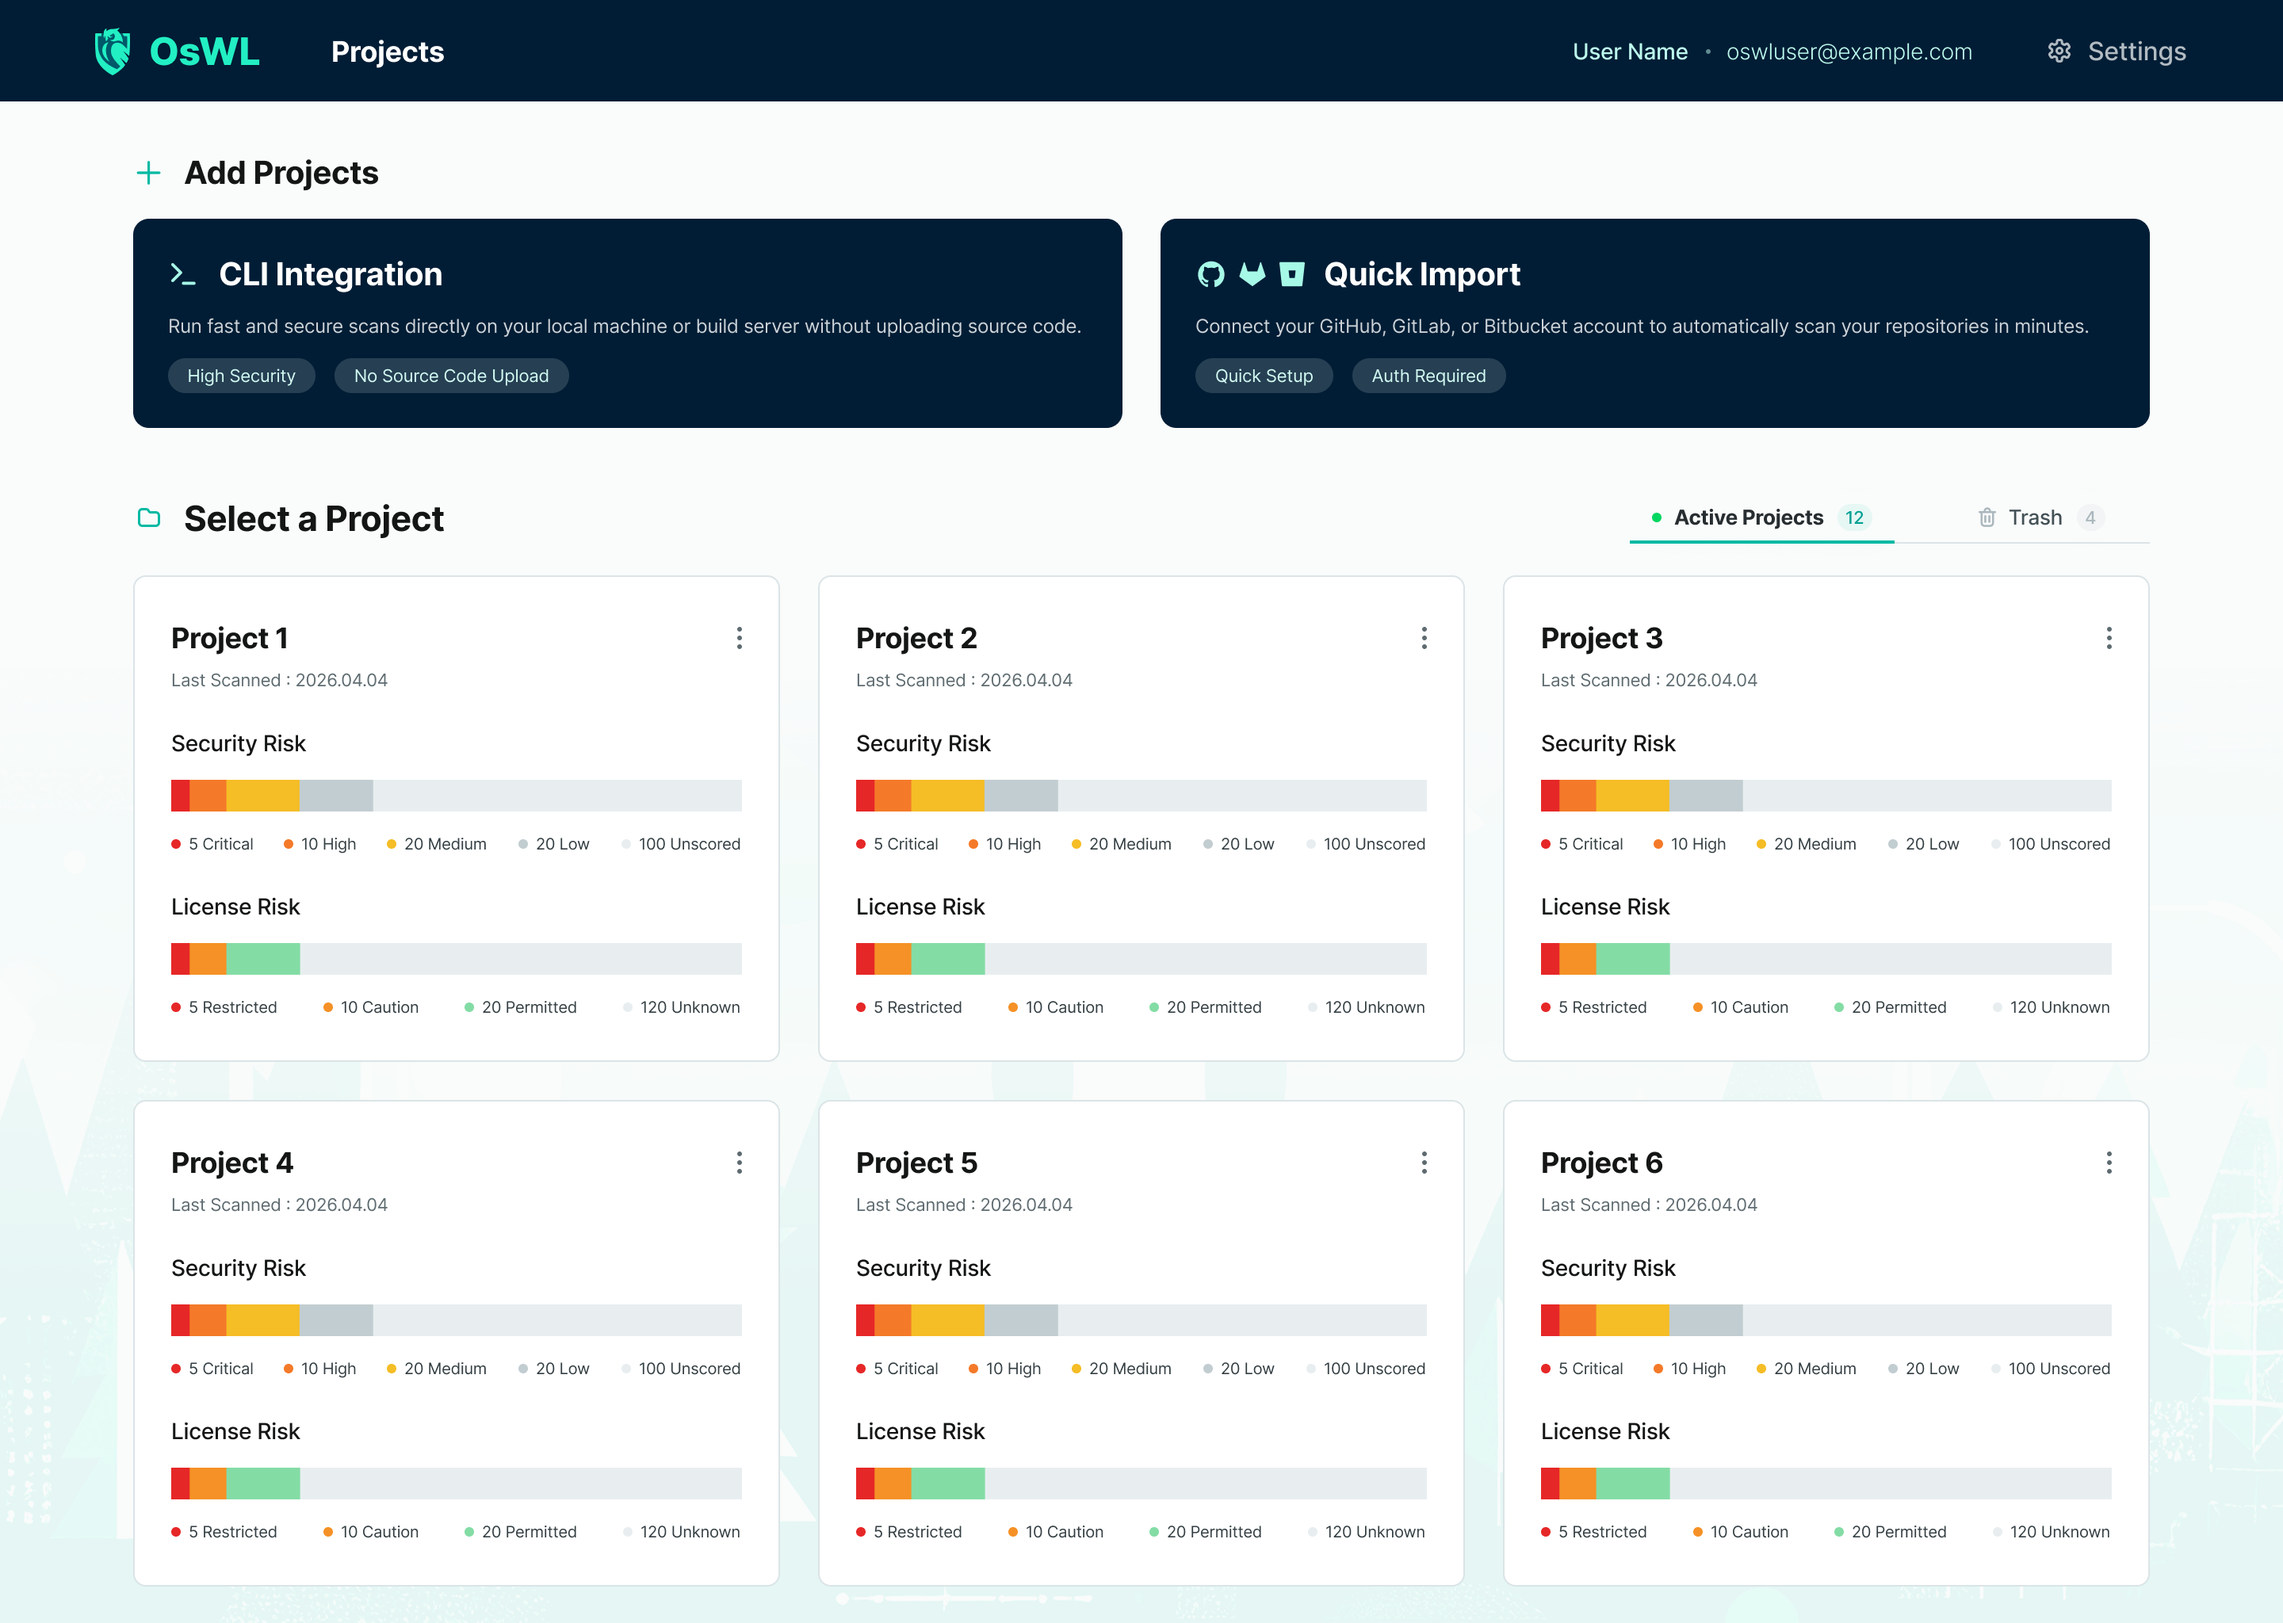
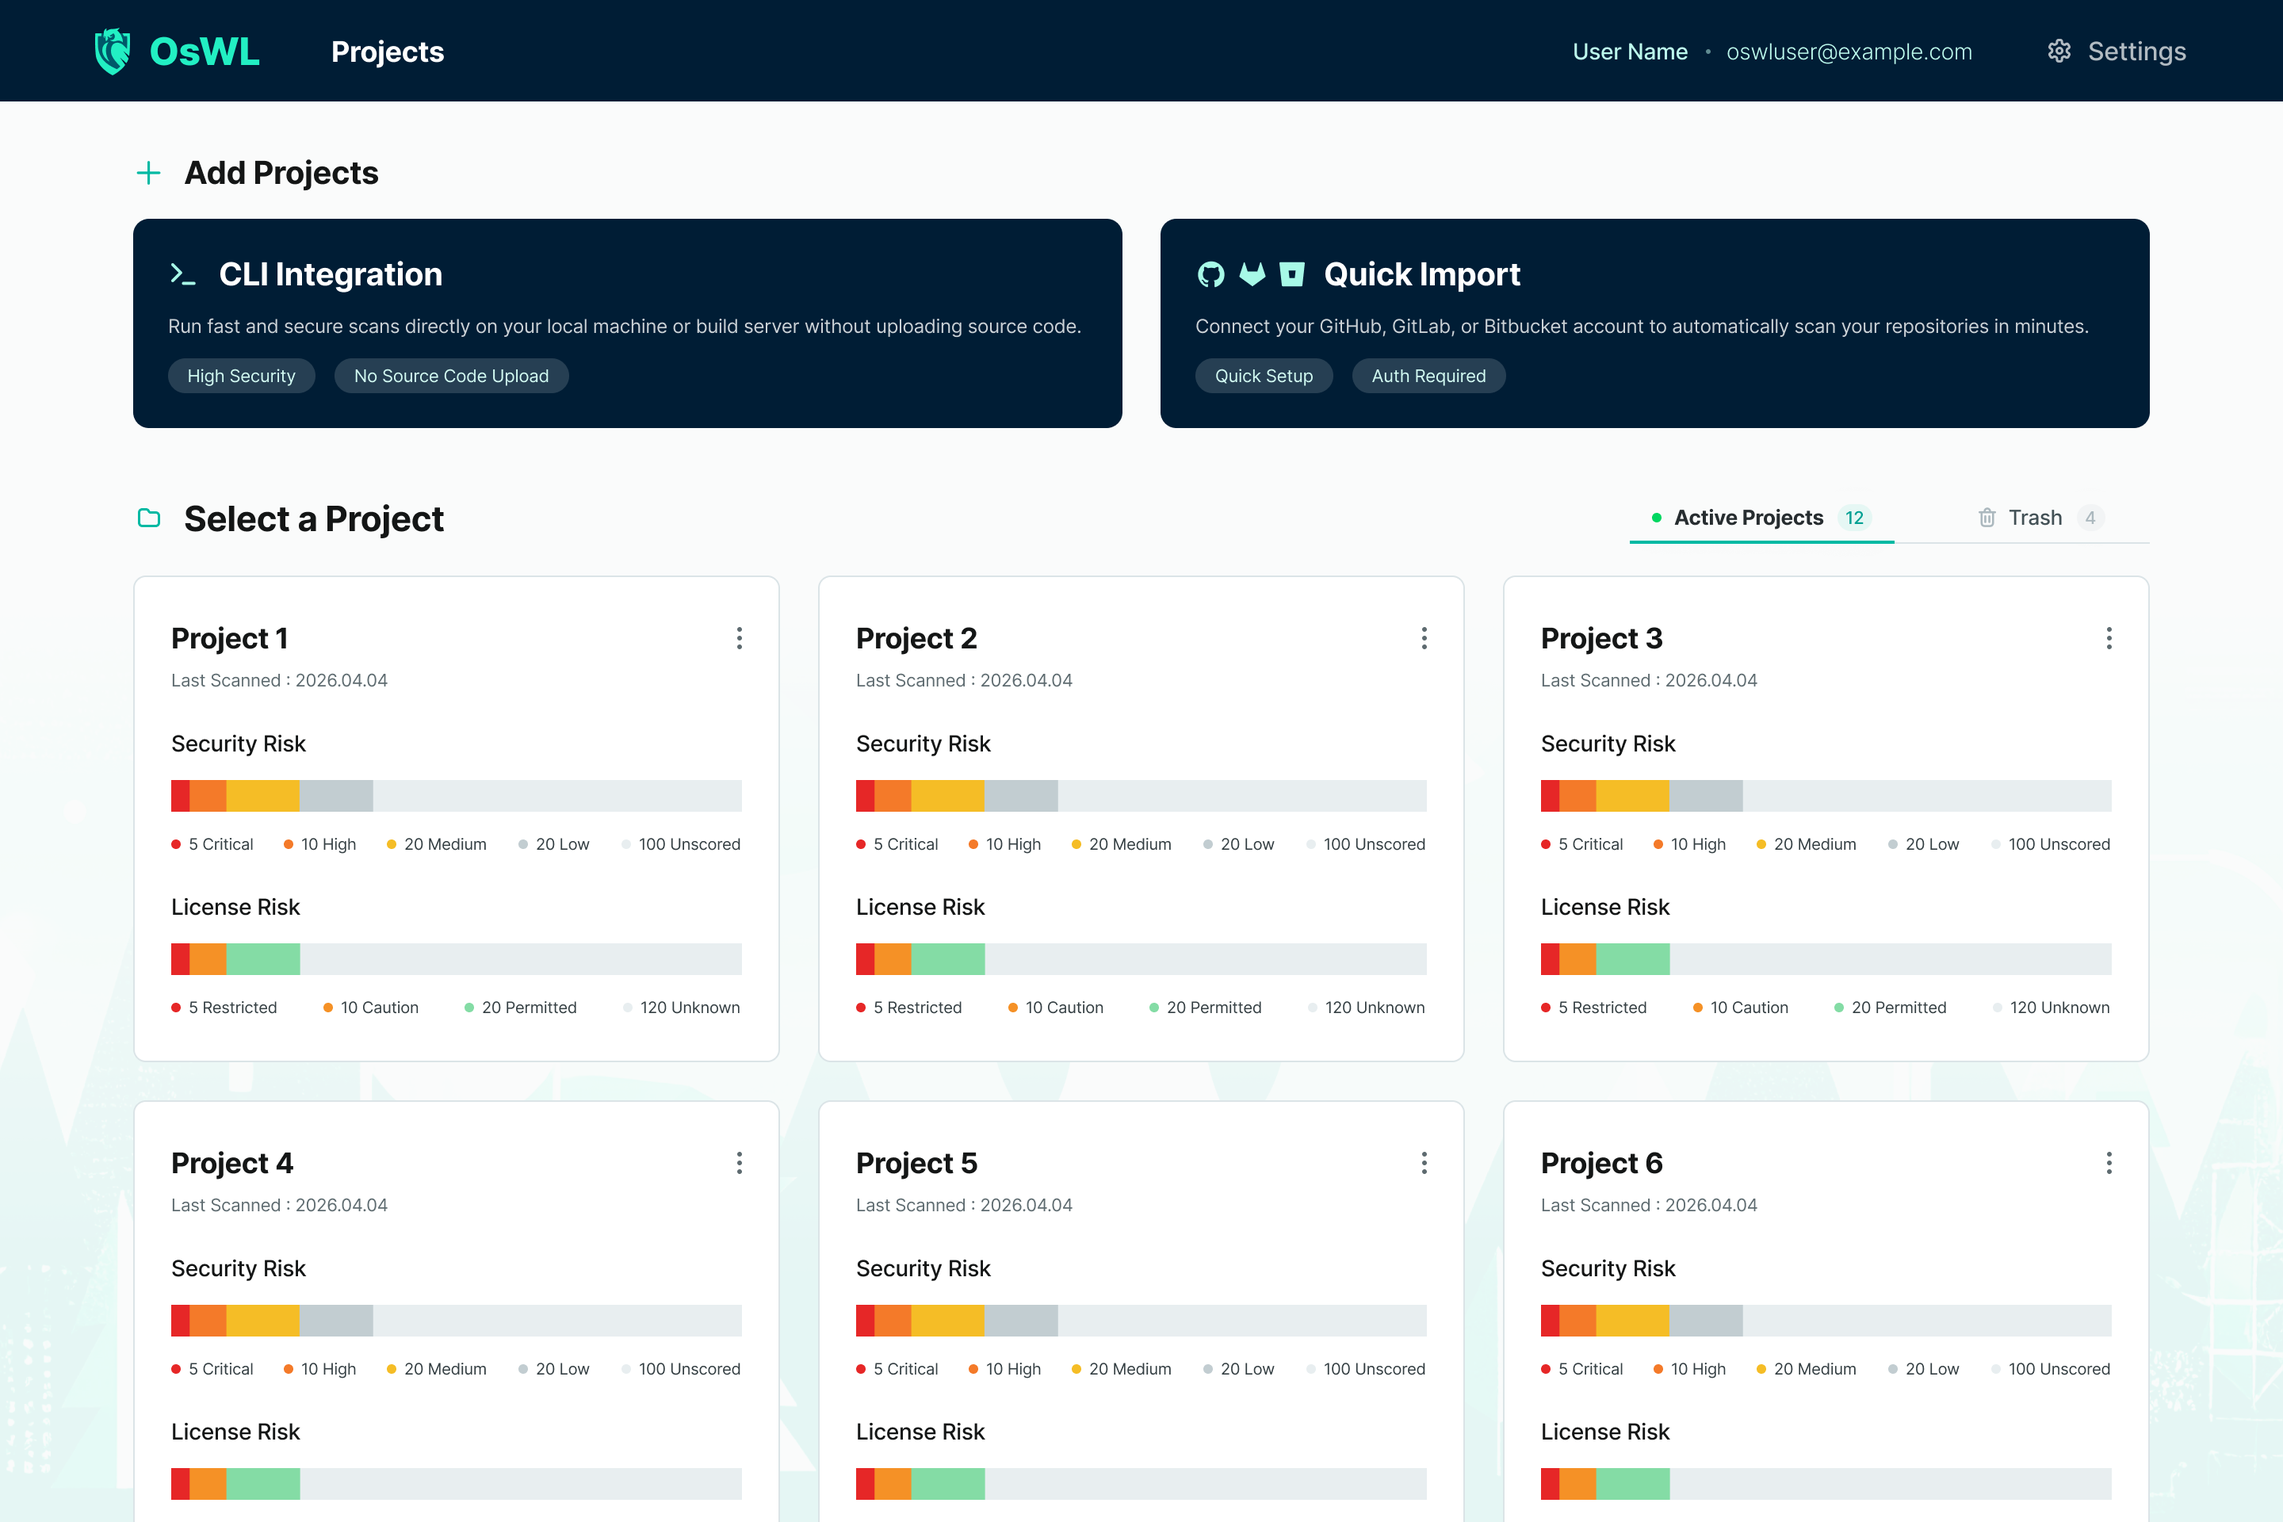
feat: Update screenshot frame styles for responsive design and aspect ratio

diff --git a/src/main/resources/static/landing/index.html b/src/main/resources/static/landing/index.html
@@ -300,9 +300,25 @@ a<!DOCTYPE html>
         }
         .tab-btn.active { background: var(--primary); color: #fff; }
         .tab-btn:not(.active):hover { color: var(--text-primary); background: var(--bg-card-hover); }
-        .screenshot-frame { border-radius: 16px; overflow: hidden; border: 1px solid var(--border); box-shadow: var(--shadow-card); display: none; height: 520px; }
-        .screenshot-frame.active { display: block; }
-        .screenshot-frame img { width: 100%; display: block; }
+
+/* screenshot-frame: 고정 height 제거, 반응형 3:2 비율 적용 */
+.screenshot-frame {
+    border-radius: 16px;
+    overflow: hidden;
+    border: 1px solid var(--border);
+    box-shadow: var(--shadow-card);
+    display: none;
+    aspect-ratio: 3 / 2;   /* 3:2 비율 고정 */
+    width: 100%;             /* 부모 너비에 맞춰 반응형 */
+}
+.screenshot-frame.active { display: block; }
+
+.screenshot-frame img {
+    width: 100%;
+    height: 100%;           /* 부모(frame) 높이에 꽉 차게 */
+    display: block;
+    object-fit: cover;      /* 비율 유지하며 꽉 채움 (또는 contain) */
+}
 
         /* ── CVE demo table ── */
         .risk-demo { background: var(--bg-card); border: 1px solid var(--border); border-radius: 20px; overflow: hidden; }
